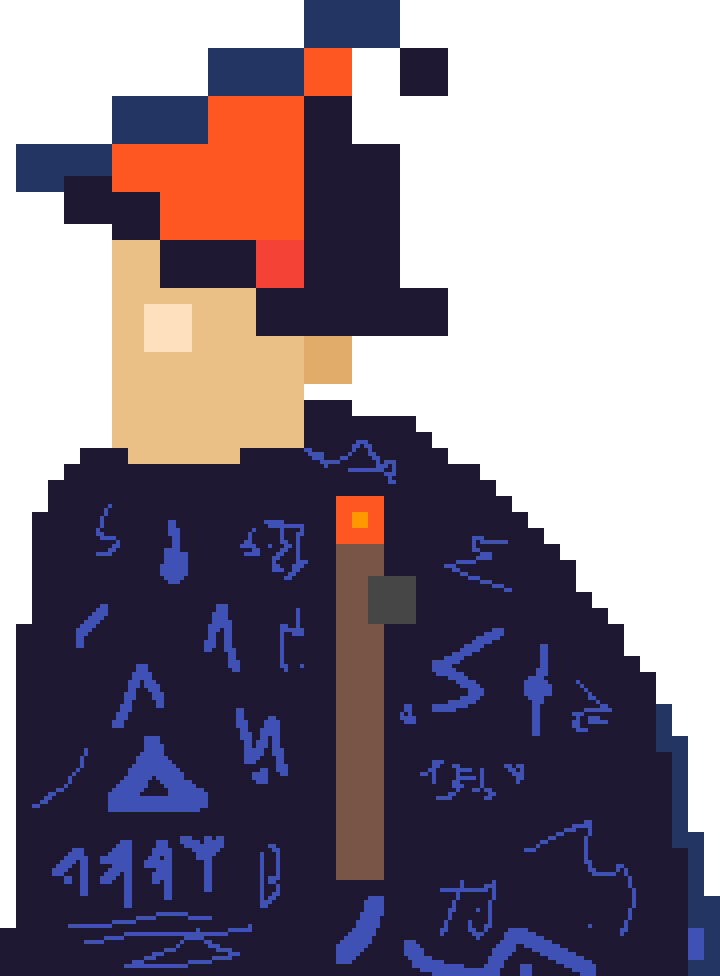
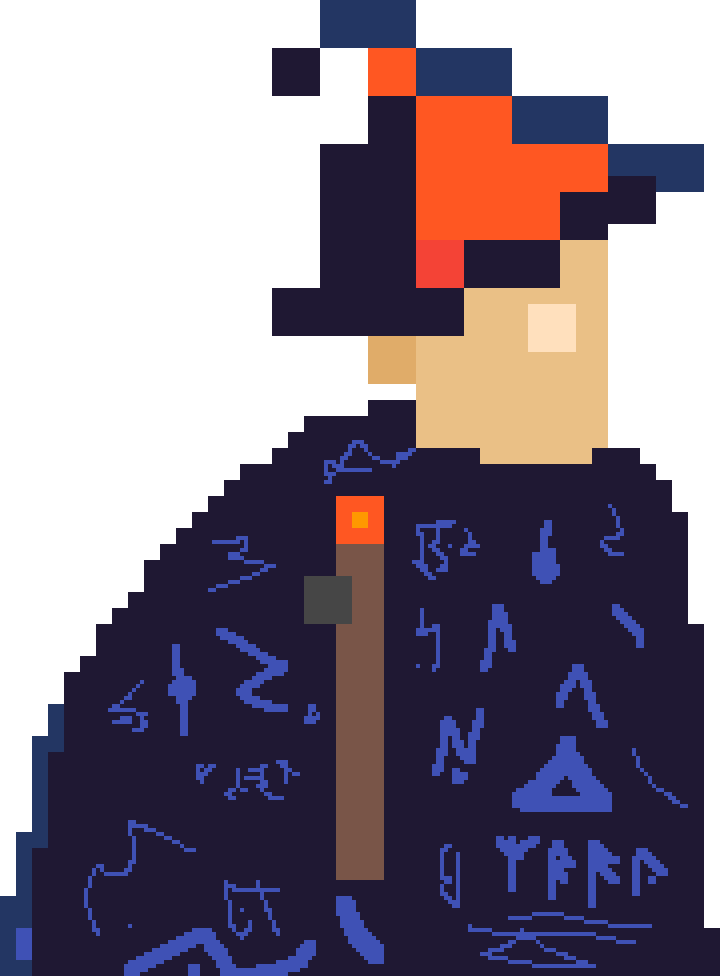
fix merge

diff --git a/css/style.css b/css/style.css
@@ -84,7 +84,23 @@ background-image: url(../img/tower_spot.png);}
     background-size: contain;
     background-repeat: no-repeat;
     image-rendering: pixelated;
+    background-image: url(../img/characters/magus_torony.png);
 }
+
+.tower.lvl-1 {
+    background-image: url(../img/characters/magus_torony_lvl1.png); 
+}
+.tower.lvl-2 {
+    background-image: url(../img/characters/magus_torony_lvl2.png); 
+}
+.tower.lvl-3 {
+    background-image: url(../img/characters/magus_torony_lvl3.png); 
+}
+
+.tower.facing-w{
+    transform: scaleX(-1);
+}
+
 .tower-pyro{
     width: 90px;
     height: 90px;
@@ -92,43 +108,18 @@ background-image: url(../img/tower_spot.png);}
     background-size: contain;
     background-repeat: no-repeat;
     image-rendering: pixelated;
+    background-image: url(../img/characters/pyro_torony.png); 
 }
-.tower.facing-e{
-    background-image: url(../img/characters/magus_torony_e.png);
-}
-
-.tower.facing-w{
-    background-image: url(../img/characters/magus_torony_w.png);
-}
-
-.tower-pyro.facing-e{
-    background-image:url(../img/characters/pyro_torony_e.png) ;
-}
-.tower-pyro.facing-w{
-    background-image:url(../img/characters/pyro_torony_e.png) ;
-}
-
-
-.tower.lvl-1 {
-     background-image: url(../img/characters/magus_torony_lvl1.png); 
-    }
-.tower.lvl-2 {
-     background-image: url(../img/characters/magus_torony_lvl2.png); 
-    }
-.tower.lvl-3 {
-     background-image: url(../img/characters/magus_torony_lvl3.png); 
-    }
-
 
 .tower-pyro.lvl-1 {
-     background-image: url(../img/characters/pyro_torony_lvl1.png); 
-    }
+    background-image: url(../img/characters/pyro_torony_lvl1.png); 
+}
 .tower-pyro.lvl-2 {
-     background-image: url(../img/characters/pyro_torony_lvl2.png); 
-    }
+    background-image: url(../img/characters/pyro_torony_lvl2.png); 
+}
 .tower-pyro.lvl-3 {
-     background-image: url(../img/characters/pyro_torony_lvl3.png); 
-    }
+    background-image: url(../img/characters/pyro_torony_lvl3.png); 
+}
 
 
 .gamehatter {

diff --git a/game.html b/game.html
@@ -25,6 +25,10 @@
                         <img src="img/sziv.png" alt="" class="coin">
                     </div>
                     <div class="d-flex flex-row justify-content-center mx-auto">
+                        <img src="img/characters/mine.png" alt="magusosdi" class="kicsikep ms-5">
+                        <button class="akna btn btn-warning me-5 ms-2">Akna 25g</button>
+                    </div>
+                    <div class="d-flex flex-row justify-content-center mt-2 mx-auto">
                         <img src="img/pyro_tower_icon.jpeg" alt="magusosdi" class="kicsikep ms-5">
                         <button class="lang btn btn-warning me-5 ms-2">Görögtűz torony 100g</button>
                     </div>
